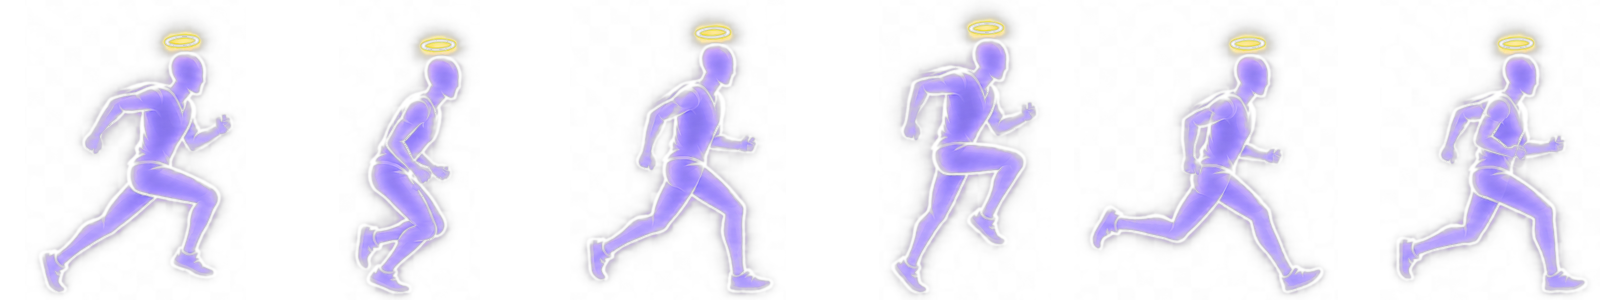
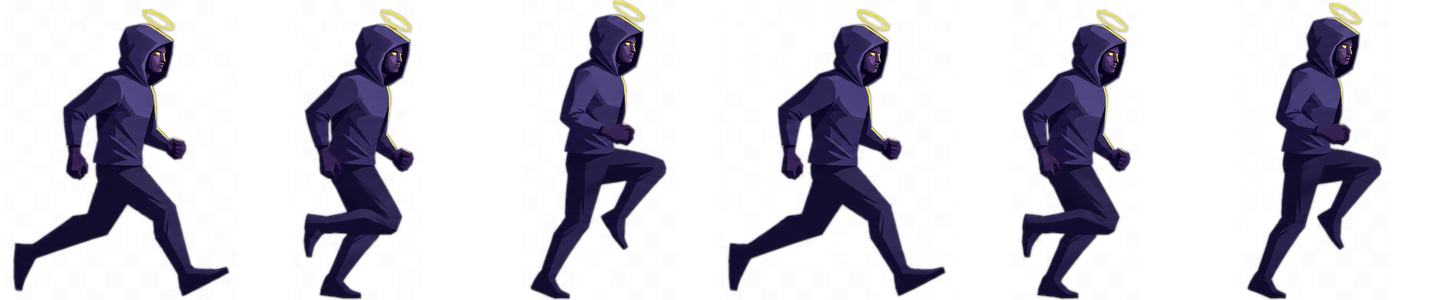
feat: ghost-run 스프라이트 교체 — 다크 퍼플 후드+골드 헤일로 6프레임
소스 이미지: 2172×724 RGB, 6포즈 런사이클.
column-profile(흰 배경 제외, 열당 10px 임계값)으로 포즈 x 범위 자동 측정,
prep-ghost-sheet.py POSES/Y0/Y1을 새 이미지 기준으로 갱신(v3).

산출물: 1434×300 (6×239×300), 상체중심 정렬·부드러운 알파 유지.
GameScene frameWidth 268→239 업데이트.

diff --git a/src/render/GameScene.ts b/src/render/GameScene.ts
@@ -332,9 +332,9 @@ export class GameScene extends Phaser.Scene {
     this.load.image("player-jump", playerJumpUrl);
     this.load.image("player-hit", playerHitUrl);
     this.load.image("player-dead", playerDeadUrl);
-    // ghost-run: 6프레임 스프라이트시트(전처리본 1608×300 → 각 268×300). 배경 투명·정렬 완료.
+    // ghost-run: 6프레임 스프라이트시트(전처리본 1434×300 → 각 239×300). 배경 투명·정렬 완료.
     this.load.spritesheet("ghost-run", ghostRunSheetUrl, {
-      frameWidth: 268,
+      frameWidth: 239,
       frameHeight: 300,
     });
     // ghost-collapse: 엎어짐 3프레임(전처리본 1260×320 → 각 420×320). run과 동일 배율(높이300 기준).

diff --git a/scripts/prep-ghost-sheet.py b/scripts/prep-ghost-sheet.py
@@ -1,18 +1,16 @@
 #!/usr/bin/env python3
-"""ghost-run 스프라이트시트 전처리 v2 — 프레임 섞임 제거 + 부드러운 알파 + 정렬.
+"""ghost-run 스프라이트시트 전처리 v3 — 2026-06 새 소스(다크 퍼플 후드+골드 헤일로).
 
-원본(assets/images/ghost/ghost-run-sheet-src.png): RGB(알파 없음) 6포즈 시트.
-체커보드 투명 패턴이 흰색으로 구워져 있고, 포즈들이 균등 격자(362px)에 안 맞아
-단순 격자 슬라이스 시 옆 포즈의 발끝이 섞여 들어왔다.
+원본(assets/images/ghost/ghost-run-sheet-src.png): RGB 6포즈 시트, 2172×724.
+흰 배경, 포즈 간 gap이 불균등 → 격자 슬라이스 대신 column-profile로 측정한
+포즈별 실제 x 범위로 크롭.
 
-v2 전략:
-  1) 포즈 6개의 실제 x 범위를 미리 측정(아래 POSES) → 격자 대신 포즈별 개별 크롭
-     (옆 프레임 발끝 섞임 제거).
-  2) y는 공통 범위(Y0..Y1)로 잘라 달리기 상하 움직임·발 baseline을 보존.
-  3) 흰 배경 제거를 '하드 임계값'이 아닌 '흰색까지의 거리 기반 부드러운 알파'로 →
-     경계 계단현상(자글거림) 제거 = 화질 개선.
-  4) 각 포즈를 상체(머리·몸통) 가로 중심에 맞춰 정렬 → 달릴 때 몸통이 좌우로
-     흔들리지 않게(다리 뻗음에 휘둘리지 않게).
+전략:
+  1) POSES: column-profile로 측정한 6포즈 실제 x 범위 (각 포즈 픽셀 덩어리 경계).
+  2) Y 공통 범위(Y0..Y1) — 전 포즈 합집합 상하 여유 포함.
+  3) 흰 배경 → 부드러운 알파 (채도+어두움 기반, 경계 계단현상 제거).
+  4) 상체(머리·몸통) 가로 중심 정렬 → 달릴 때 몸통 좌우 떨림 제거.
+     (발 높이가 프레임마다 다른 런사이클 특성상 하단 정렬은 위아래 떨림 유발)
 
 산출물: assets/game/ghost-run.png (RGBA, 6프레임 균등)
 """
@@ -24,9 +22,10 @@ ROOT = os.path.join(os.path.dirname(__file__), "..")
 SRC = os.path.join(ROOT, "assets", "images", "ghost", "ghost-run-sheet-src.png")
 OUT = os.path.join(ROOT, "assets", "game", "ghost-run.png")
 
-# 측정된 6포즈 x 범위 (scripts에서 column-profile로 산출). 격자 대신 이걸 쓴다.
-POSES = [(42, 349), (457, 641), (711, 1011), (1097, 1330), (1359, 1732), (1759, 2065)]
-Y0, Y1 = 138, 599            # 공통 세로 크롭 범위 (전 포즈 합집합)
+# column-profile(흰 배경 제외, 열당 10px 이상)으로 측정한 6포즈 실제 x 범위.
+# 소스: 2172×724 RGB 시트 (2026-06, 다크 퍼플 후드+골드 헤일로).
+POSES = [(29, 400), (494, 683), (802, 1034), (1092, 1464), (1558, 1746), (1868, 2098)]
+Y0, Y1 = 127, 646            # 공통 세로 크롭 범위 — 전 포즈 캐릭터 합집합 + 여유
 PAD = 16                     # 포즈 좌우 여백(px, 소스 기준)
 TARGET_H = 300               # 출력 프레임 높이(px) — 레티나 여유, 다운스케일로 선명
 TORSO_FRAC = 0.42            # 상체 정렬에 쓸 상단 비율(머리+몸통 영역)